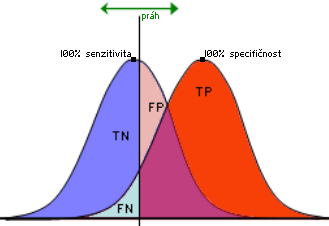
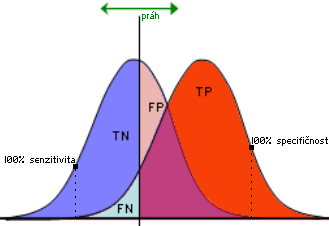
z0c

diff --git a/NG/DX/36.MD b/NG/DX/36.MD
@@ -41,7 +41,7 @@ Kromě Amdahlova zákona existuje také Gustafsonův zákon, který je optimisti
 
 ### Výkonnostní rovnice procesoru
 
-* Bereme-li v potaz jednoprocesorový systém bez cache, pak je<br>doba provádění konkrétního programu na CPU = (počet instrukcí × CPI × doba trvání jednoho taktu)
+* Bereme-li v potaz jednoprocesorový systém bez cache, pak:<br>Doba provádění konkrétního programu na CPU = (počet instrukcí × CPI × doba trvání jednoho taktu)
 * CPI je průměrný počet taktů na instrukci (_cycles per instruction_), jehož hodnota závisí na použitém _instrukčním mixu_
 * Instrukční mix je seznam instrukcí ohodnocený podle pravděpodobnosti výskytu v rámci daného typu zátěže
 * (CPI × doba trvání jednoho taktu)⁻¹ nám pak dává IPS (_propustnost systému_)
